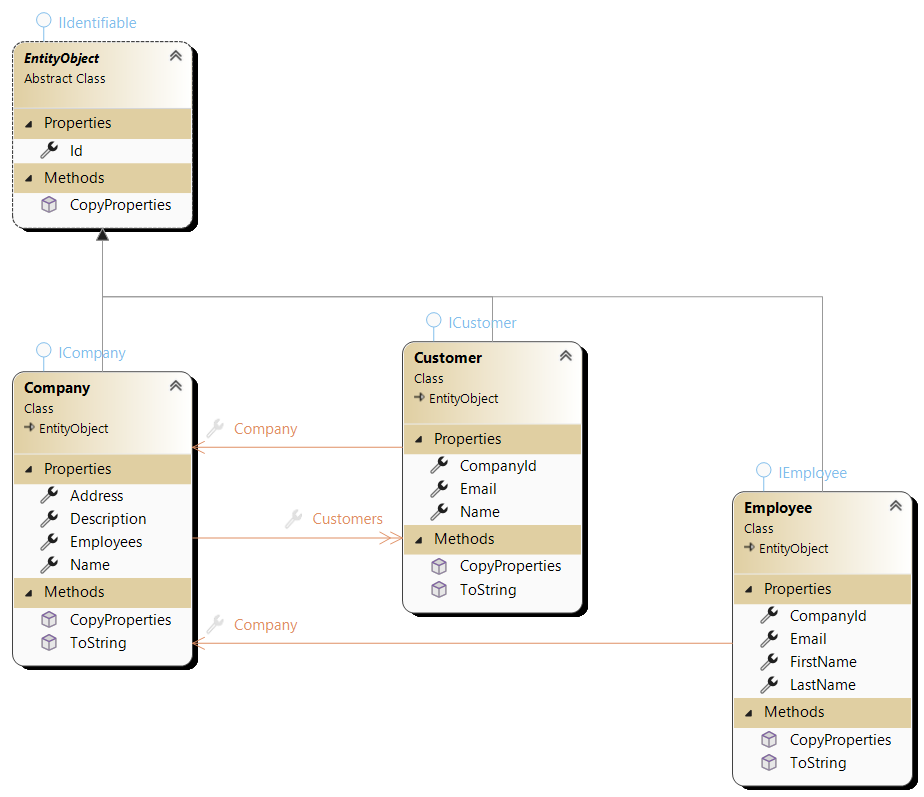
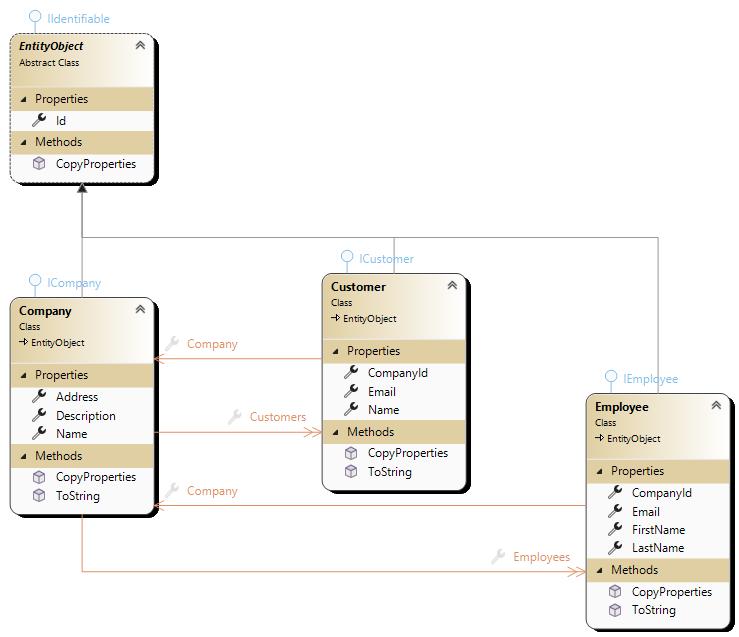
Changed documentation.

diff --git a/CompanyManager.Logic/Migrations/CompanyContextModelSnapshot.cs b/CompanyManager.Logic/Migrations/CompanyContextModelSnapshot.cs
@@ -62,7 +62,13 @@ namespace CompanyManager.Logic.Migrations
                         .HasMaxLength(256)
                         .HasColumnType("TEXT");
 
+                    b.Property<string>("Note")
+                        .HasMaxLength(2048)
+                        .HasColumnType("TEXT");
+
                     b.HasKey("Id");
+
+                    b.HasIndex("CompanyId");
 
                     b.HasIndex("Email")
                         .IsUnique();
@@ -71,6 +77,63 @@ namespace CompanyManager.Logic.Migrations
                         .IsUnique();
 
                     b.ToTable("Customers");
+                });
+
+            modelBuilder.Entity("CompanyManager.Logic.Entities.Employee", b =>
+                {
+                    b.Property<int>("Id")
+                        .ValueGeneratedOnAdd()
+                        .HasColumnType("INTEGER");
+
+                    b.Property<int>("CompanyId")
+                        .HasColumnType("INTEGER");
+
+                    b.Property<string>("Email")
+                        .IsRequired()
+                        .HasColumnType("TEXT");
+
+                    b.Property<string>("FirstName")
+                        .IsRequired()
+                        .HasColumnType("TEXT");
+
+                    b.Property<string>("LastName")
+                        .IsRequired()
+                        .HasColumnType("TEXT");
+
+                    b.HasKey("Id");
+
+                    b.HasIndex("CompanyId");
+
+                    b.ToTable("EmployeeSet");
+                });
+
+            modelBuilder.Entity("CompanyManager.Logic.Entities.Customer", b =>
+                {
+                    b.HasOne("CompanyManager.Logic.Entities.Company", "Company")
+                        .WithMany("Customers")
+                        .HasForeignKey("CompanyId")
+                        .OnDelete(DeleteBehavior.Cascade)
+                        .IsRequired();
+
+                    b.Navigation("Company");
+                });
+
+            modelBuilder.Entity("CompanyManager.Logic.Entities.Employee", b =>
+                {
+                    b.HasOne("CompanyManager.Logic.Entities.Company", "Company")
+                        .WithMany("Employees")
+                        .HasForeignKey("CompanyId")
+                        .OnDelete(DeleteBehavior.Cascade)
+                        .IsRequired();
+
+                    b.Navigation("Company");
+                });
+
+            modelBuilder.Entity("CompanyManager.Logic.Entities.Company", b =>
+                {
+                    b.Navigation("Customers");
+
+                    b.Navigation("Employees");
                 });
 #pragma warning restore 612, 618
         }

diff --git a/CompanyManager.ConApp/Program.cs b/CompanyManager.ConApp/Program.cs
@@ -11,7 +11,7 @@ namespace CompanyManager.ConApp
         static void Main(/*string[] args*/)
         {
             string input = string.Empty;
-            Logic.Contracts.IContext context = Logic.DataContext.Factory.CreateContext();
+            using Logic.Contracts.IContext context = Logic.DataContext.Factory.CreateContext();
 
             while (!input.Equals("x", StringComparison.CurrentCultureIgnoreCase))
             {
@@ -96,7 +96,7 @@ namespace CompanyManager.ConApp
                 Console.WriteLine($"{company}");
                 foreach (var customer in company.Customers)
                 {
-                    Console.WriteLine($"{customer}");
+                    Console.WriteLine($"\t{customer}");
                 }
             }
         }
@@ -216,9 +216,9 @@ namespace CompanyManager.ConApp
 
             try
             {
-                foreach (var cust in context.CustomerSet.AsQueryable().Where(query).Include(e => e.Company))
+                foreach (var customer in context.CustomerSet.AsQueryable().Where(query).Include(e => e.Company))
                 {
-                    Console.WriteLine($"{cust} - {cust.Company?.Name}");
+                    Console.WriteLine($"{customer} - {customer.Company?.Name}");
                 }
             }
             catch (Exception ex)

diff --git a/CompanyManager.Logic/Entities/Company.cs b/CompanyManager.Logic/Entities/Company.cs
@@ -1,5 +1,6 @@
 using CompanyManager.Logic.Contracts;
 using Microsoft.EntityFrameworkCore;
+using System.ComponentModel.DataAnnotations.Schema;
 
 namespace CompanyManager.Logic.Entities
 {

diff --git a/CompanyManager.Logic/Entities/Employee.cs b/CompanyManager.Logic/Entities/Employee.cs
@@ -1,4 +1,5 @@
 using CompanyManager.Logic.Contracts;
+using System.ComponentModel.DataAnnotations.Schema;
 
 namespace CompanyManager.Logic.Entities
 {

diff --git a/README.md b/README.md
@@ -25,13 +25,13 @@ Um mit dem EntityFramework zu arbeiten, müssen die folgenden Packages installie
   - Microsoft.EntityFrameworkCore*
   - Microsoft.EntityFrameworkCore.Sqlite**
 - CompanyManger.ConApp
-  - Microsoft.EntityFrameworkCore.Design***
+  - Microsoft.EntityFrameworkCore.Tools***
 
 Abhängig von der IDE kann dies über die Konsole oder über die GUI erfolgen. Sie finden eine Anleitung zum Installieren von Nuget-Packages [hier](https://github.com/leoggehrer/Slides/tree/main/NutgetInstall).
 
 *...Das ist die Basis-Bibliothek für den EntityFramework und muss immer inkludiert werden.
 **...Erweiterung zur Basis-Bibliothek für die Verwendung von SQLite.
-***...Diese Package ist für dei Erstellung und Aktuallisierung der Datenbank erforderlich.
+***...Diese Package ist für die Erstellung und Aktuallisierung der Datenbank erforderlich.
 
 ### Erstellen der Entitäten
 
